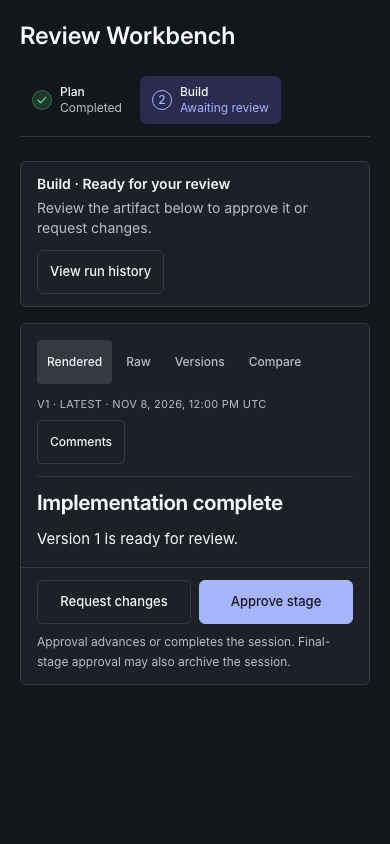
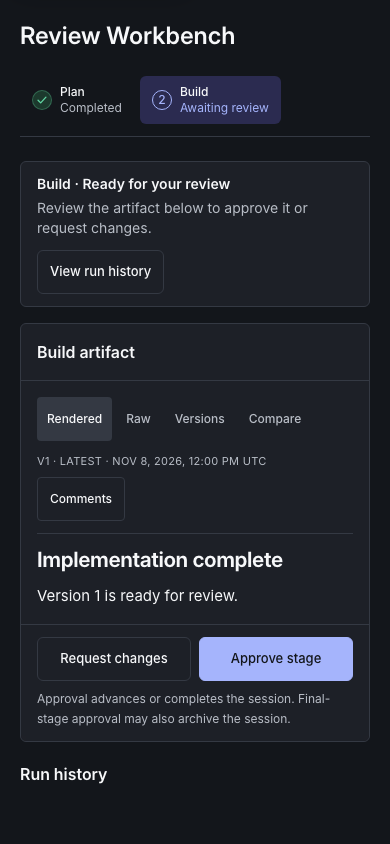
OP-529: Reuse the production Workbench layout in previews
Render SessionStageWorkspace for the reference instead of duplicating the
artifact sheet. Check the shared heading and run history landmarks and
refresh the desktop and compact captures.

diff --git a/src/app/dev/interaction-motion/preview-client.tsx b/src/app/dev/interaction-motion/preview-client.tsx
@@ -7,6 +7,7 @@ import { ArtifactPanel, artifactBodyCacheKey } from "@/features/sessions/detail/
 import { sessionReviewReadOnlyReason } from "@/features/sessions/review/comment-access";
 import { SessionCompletionSummary } from "@/features/sessions/detail/session-completion-summary";
 import { SessionReviewBar } from "@/features/sessions/detail/session-review-bar";
+import { SessionStageWorkspace } from "@/features/sessions/detail/session-stage-workspace";
 import { resolveReviewMode } from "@/features/sessions/detail/review-mode";
 import { StageTimeline, type StageTimelineEntry } from "@/features/sessions/detail/stage-timeline";
 import {
@@ -73,6 +74,41 @@ function InteractionMotionContent({
       ? reviewArtifact.source
       : `# Implementation complete\n\nVersion ${version} is ready for review.`;
   const paragraphStart = source.indexOf("Version");
+  const showingBuild = selected === "build";
+  const artifact = (
+    <ArtifactPanel
+      emptyText="No artifact yet."
+      initialFormattedArtifact={
+        version === reviewArtifact.version ? (
+          <div dangerouslySetInnerHTML={{ __html: reviewArtifact.html }} />
+        ) : (
+          <div>
+            <h2 data-review-text-start={2} data-review-text-end={25}>
+              Implementation complete
+            </h2>
+            <p data-review-text-start={paragraphStart} data-review-text-end={source.length}>
+              Version {version} is ready for review.
+            </p>
+          </div>
+        )
+      }
+      initialFormattedArtifactKey={artifactBodyCacheKey("preview", "build", version, artifactId)}
+      initialNow={initialNow}
+      isDrafting={false}
+      isAwaitingReview={phaseStatus === "awaiting_review"}
+      latestArtifact={{
+        id: artifactId,
+        createdAt: initialNow,
+        payload: source,
+        stageSlug: "build",
+        version,
+      }}
+      loadLatest
+      readOnlyReason={sessionReviewReadOnlyReason({ archivedAt, phaseStatus })}
+      sessionId="preview"
+      stageSlug="build"
+    />
+  );
   const timeline: StageTimelineEntry[] = stages.map((stage) => ({
     stage,
     phaseStatus: stage.slug === "build" && phaseStatus !== "approved" ? phaseStatus : null,
@@ -131,71 +167,43 @@ function InteractionMotionContent({
         initialNow={initialNow}
       />
       <SessionCompletionSummary session={{ phaseStatus, pullRequests: [] }} />
-      <section
-        aria-label={referenceMode ? "Build review" : undefined}
-        className={referenceMode ? "ui-sheet min-w-0" : undefined}
-      >
-        <div className={referenceMode ? "p-4 sm:p-5" : undefined}>
-          <ArtifactPanel
-            emptyText="No artifact yet."
-            initialFormattedArtifact={
-              version === reviewArtifact.version ? (
-                <div dangerouslySetInnerHTML={{ __html: reviewArtifact.html }} />
-              ) : (
-                <div>
-                  <h2 data-review-text-start={2} data-review-text-end={25}>
-                    Implementation complete
-                  </h2>
-                  <p data-review-text-start={paragraphStart} data-review-text-end={source.length}>
-                    Version {version} is ready for review.
-                  </p>
-                </div>
-              )
-            }
-            initialFormattedArtifactKey={artifactBodyCacheKey(
-              "preview",
-              "build",
-              version,
-              artifactId,
-            )}
-            initialNow={initialNow}
-            isDrafting={false}
-            isAwaitingReview={phaseStatus === "awaiting_review"}
-            latestArtifact={{
-              id: artifactId,
-              createdAt: initialNow,
-              payload: source,
-              stageSlug: "build",
-              version,
-            }}
-            loadLatest={true}
-            readOnlyReason={sessionReviewReadOnlyReason({ archivedAt, phaseStatus })}
-            sessionId="preview"
-            stageSlug="build"
-          />
-        </div>
-        {referenceMode ? (
-          <SessionReviewBar
-            attached
-            approveLabel="Approve stage"
-            approveDescription="Approval advances or completes the session. Final-stage approval may also archive the session."
-            mode={resolveReviewMode({
-              archivedAt,
-              canApprove: true,
-              phaseStatus,
-              selectedStageIsCurrent: selected === "build",
-            })}
-            onApprove={() => setPhaseStatus("approved")}
-            onReject={() => {
-              setPhaseStatus("rejected");
-              return Promise.resolve(true);
-            }}
-            reviewArtifact={artifactId ? { artifactId, stageId: "build", version } : null}
-            phaseActionPending={null}
-            stageName="Build"
-          />
-        ) : null}
-      </section>
+      {referenceMode ? (
+        <SessionStageWorkspace
+          stageName={showingBuild ? "Build" : "Plan"}
+          stageSlug={selected}
+          focus={showingBuild ? "artifact" : "empty"}
+          emptyText="No output was recorded for this stage."
+          artifact={showingBuild ? artifact : null}
+          activity={null}
+          reviewControls={
+            showingBuild ? (
+              <SessionReviewBar
+                attached
+                approveLabel="Approve stage"
+                approveDescription="Approval advances or completes the session. Final-stage approval may also archive the session."
+                mode={resolveReviewMode({
+                  archivedAt,
+                  canApprove: true,
+                  phaseStatus,
+                  selectedStageIsCurrent: showingBuild,
+                })}
+                onApprove={() => setPhaseStatus("approved")}
+                onReject={() => {
+                  setPhaseStatus("rejected");
+                  return Promise.resolve(true);
+                }}
+                reviewArtifact={artifactId ? { artifactId, stageId: "build", version } : null}
+                phaseActionPending={null}
+                stageName="Build"
+              />
+            ) : null
+          }
+        />
+      ) : (
+        <section>
+          <div>{artifact}</div>
+        </section>
+      )}
     </main>
   );
 }

diff --git a/e2e/factory-reference.spec.ts b/e2e/factory-reference.spec.ts
@@ -159,13 +159,22 @@ for (const viewport of viewports) {
         page,
       }, info) => {
         await page.goto("/dev/interaction-motion?reference=1&reviewState=editable");
+        const artifact = page.getByRole("region", { name: "Build artifact", exact: true });
         await expect(
-          page.getByText("Version 1 is ready for review.", { exact: true }),
+          artifact.getByRole("heading", { name: "Build artifact", level: 2, exact: true }),
         ).toBeVisible();
-        await expect(page.getByRole("button", { name: "Comments", exact: true })).toBeVisible();
         await expect(
-          page.getByRole("button", { name: "Approve stage", exact: true }),
+          artifact.getByText("Version 1 is ready for review.", { exact: true }),
         ).toBeVisible();
+        await expect(artifact.getByRole("button", { name: "Comments", exact: true })).toBeVisible();
+        await expect(
+          artifact.getByRole("button", { name: "Approve stage", exact: true }),
+        ).toBeVisible();
+        await expect(
+          page
+            .getByRole("region", { name: "Session runs" })
+            .getByRole("heading", { name: "Run history" }),
+        ).toHaveAttribute("id", "session-runs-heading");
         await capture(page, info, "review-artifact");
         await expectAccessible(page);
         const trigger = page.getByRole("button", { name: "Request changes", exact: true });
